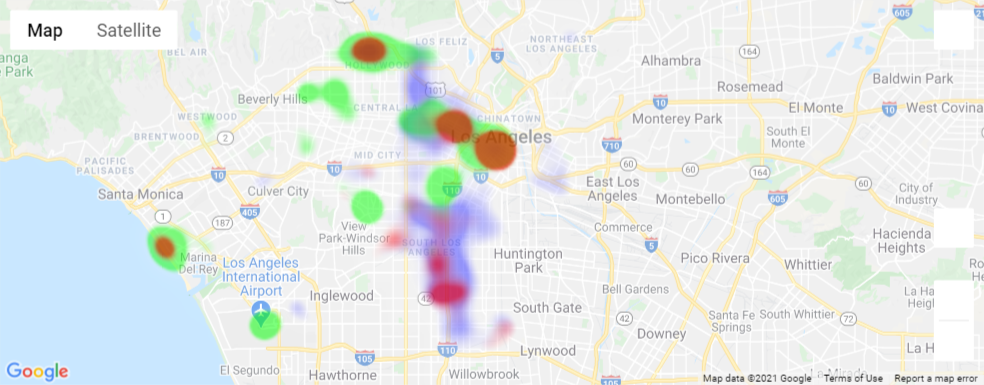
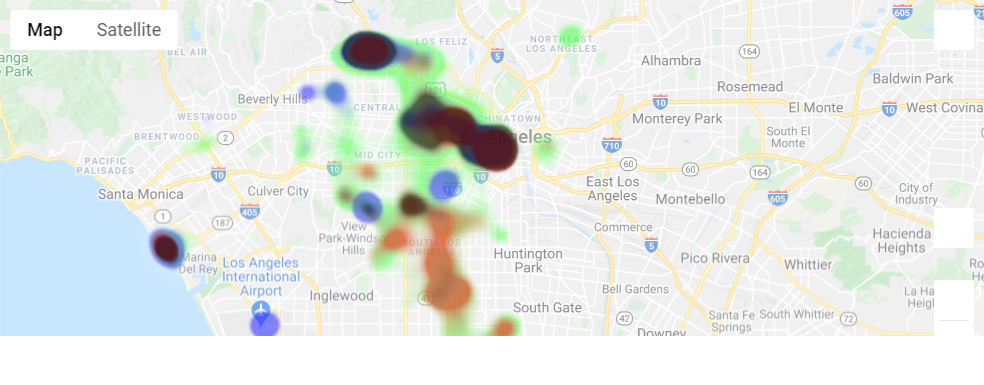
small tweaks on heatmap

diff --git a/src/datautil.py b/src/datautil.py
@@ -106,12 +106,12 @@ def homeless_counts():
     return homeless_counts_fixed
 
 
-def collect_lat_lng(crime_desc):
+def collect_lat_lng_dist(crime_desc):
     # Closeby lat and lng
     if crime_desc == "All":
-        df = nan_dropped_crime_df
+        df = clean_crime_data_df
     else:
-        df = nan_dropped_crime_df[nan_dropped_crime_df["CrmCd.Desc"] == crime_desc]
+        df = clean_crime_data_df[clean_crime_data_df["Crime Description"] == crime_desc]
         
     lat_lng_df = df[["Latitude", "Longitude"]].drop_duplicates()
 
